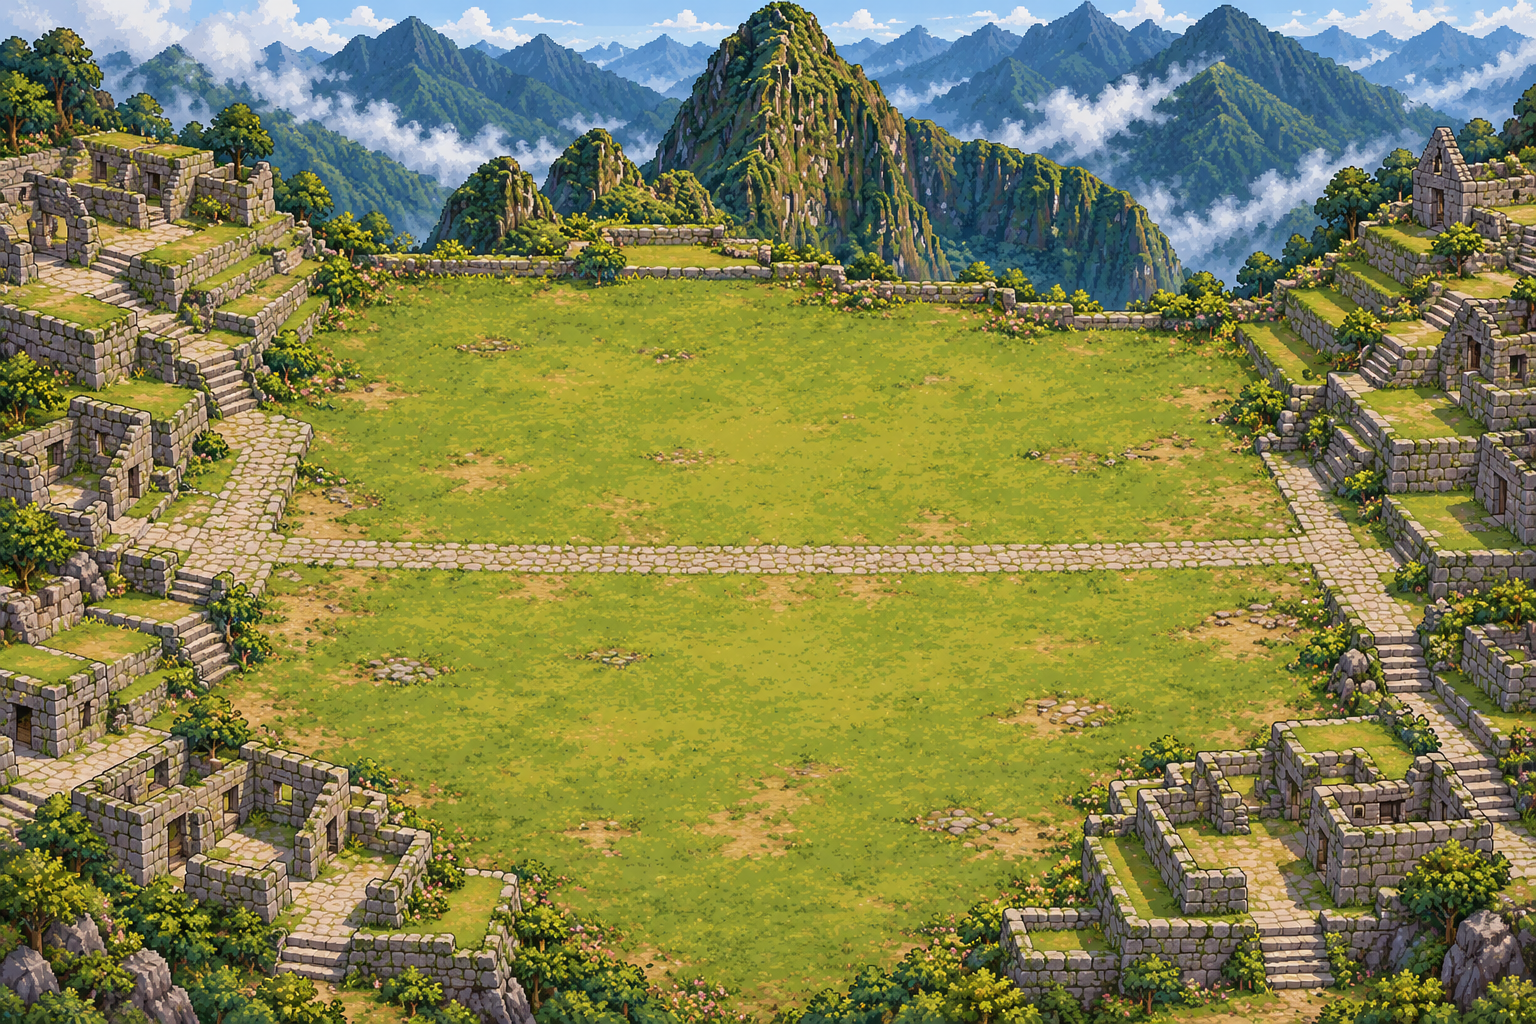
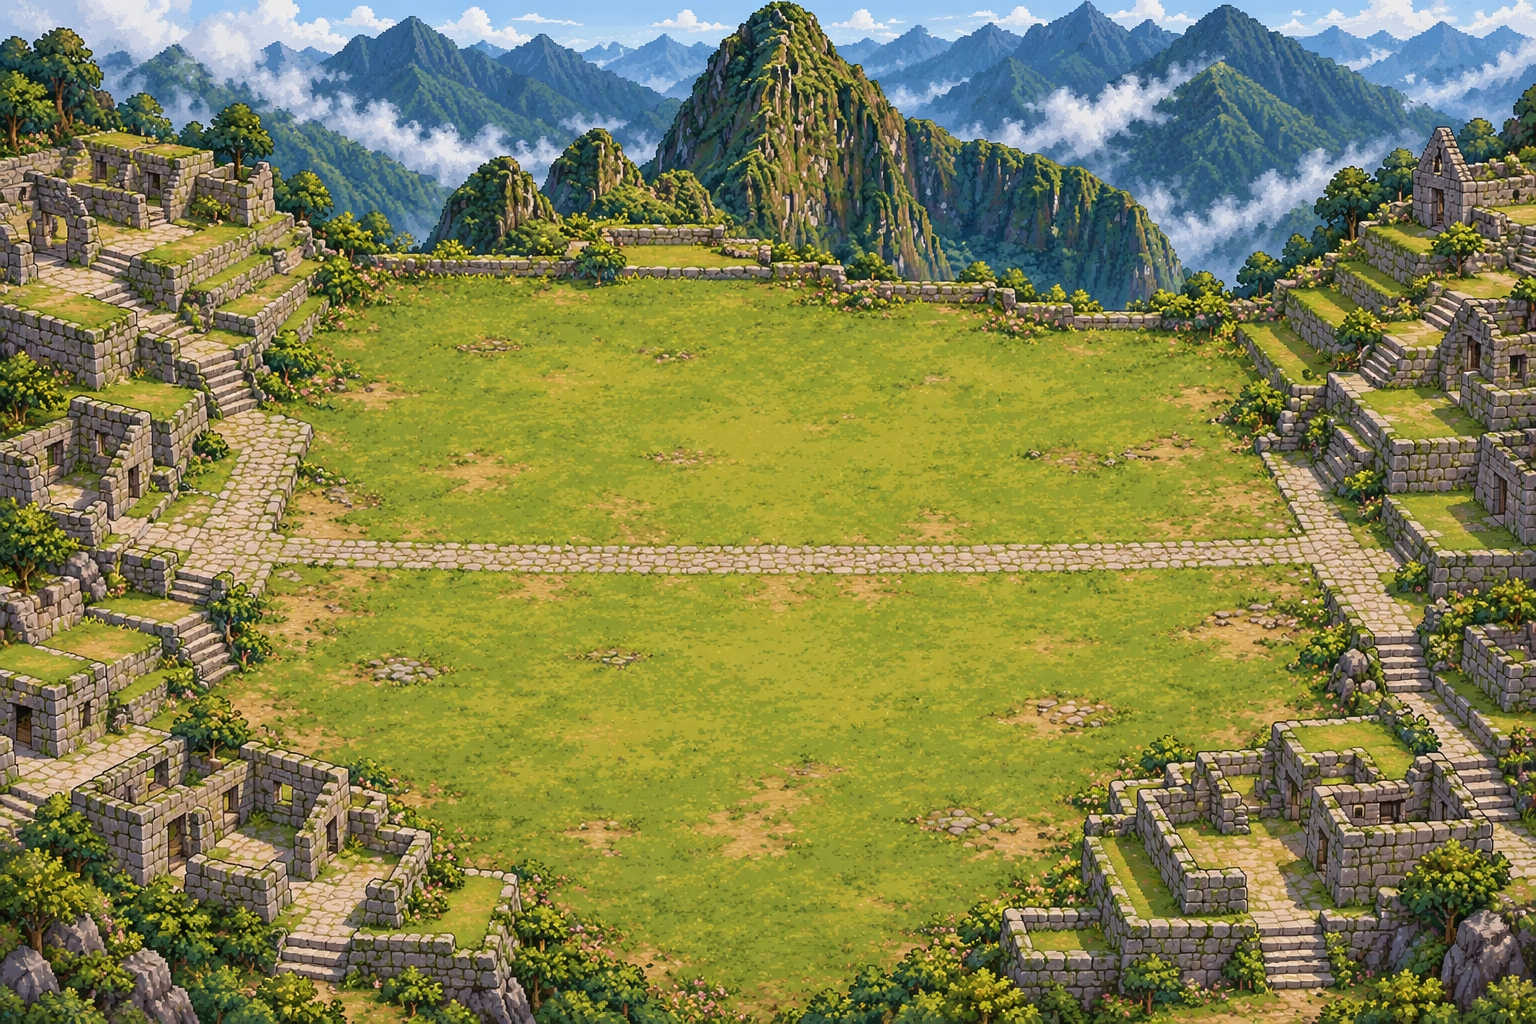
fix(deploy): recuperar margen del paquete

Changed region(s): [[0.75, 0.2812, 0.7812, 0.3125], [0.6875, 0.2812, 0.7188, 0.3125]]

diff --git a/docs/ARCHITECTURE.md b/docs/ARCHITECTURE.md
@@ -31,6 +31,8 @@ P.Gacha usa la clave independiente causas-collection-preferences-v1 con version/
 
 El paquete también excluye tres metadatos de autoría conservados en public/Git (gallinazo-phase2-frames.json, gallinazo-rig-frames.json y kingteka-ultimate-portrait.json). Los frames usados en ejecución ya están integrados en los módulos JS; ningún runtime solicita estos JSON. Se conserva el margen de tamaño existente sin cambiar imágenes ni reglas.
 
+Los fondos `plaza-v1.webp` y `machu-v1.webp` conservan sus fuentes PNG, dimensiones 1536×1024 y geometría intacta, pero se distribuyen en WebP de calidad 98. Esta codificación libera margen suficiente para que el `tar.gz` sea válido tanto en Windows como en Linux sin retirar contenido jugable.
+
 
 ## Separación entre fuente y distribución
 src/ contiene la lógica y la interfaz editables. public/assets/ contiene los recursos originales. scripts/build.cjs copia ambos a dist/ sin empaquetar ni minificar el código. dist/ está ignorado por Git y siempre puede reconstruirse.
